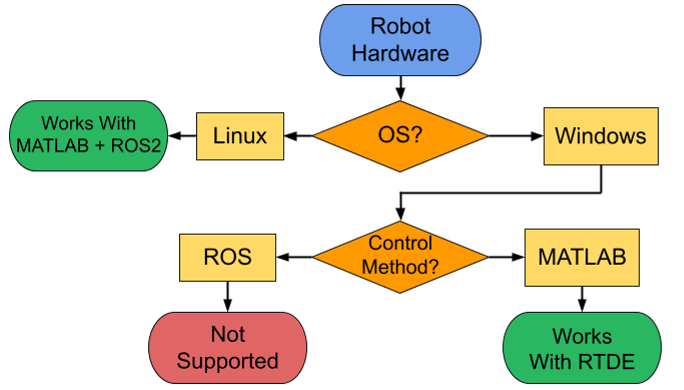
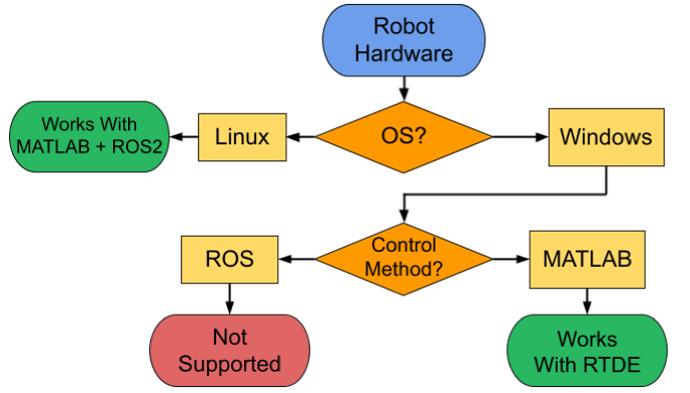
Picture Resize
resized flowcharts to be smaller

diff --git a/projects/carelab-labs.md b/projects/carelab-labs.md
@@ -22,11 +22,11 @@ A key challenge was selecting the right combination of OS, control method, and s
 
 For **direct hardware control**, Linux supports both MATLAB and ROS2, but Windows — the dominant OS in university labs — only supports MATLAB via RTDE. ROS2 on Windows does not support direct UR hardware control, making MATLAB + RTDE the clear choice for a Windows-native workflow.
 
-<img src="{{ '/assets/images/carelab/hardware_flowchart.png' | relative_url }}" alt="Hardware control platform selection flowchart" style="max-width: 75%; height: auto;">
+![Hardware control platform selection flowchart]({{ '/assets/images/carelab/hardware_flowchart.png' | relative_url }})
 
 For **simulation**, Linux provides full access to URSim and Gazebo natively. On Windows, running a Linux VM gives the same URSim + URStudio access. Running natively on Windows limits you to URStudio only (a browser-based PolyscopeX emulator), which does not support external control methods like RTDE or ROS — only teach pendant-style interaction.
 
-<img src="{{ '/assets/images/carelab/sim_flowchart.png' | relative_url }}" alt="Simulation platform selection flowchart" style="max-width: 75%; height: auto;">
+![Simulation platform selection flowchart]({{ '/assets/images/carelab/sim_flowchart.png' | relative_url }})
 
 The final architecture uses **MATLAB + RTDE on Windows** for hardware control, with **URSim in a Linux VM** for simulation and **URStudio** for quick pose exploration.
 
